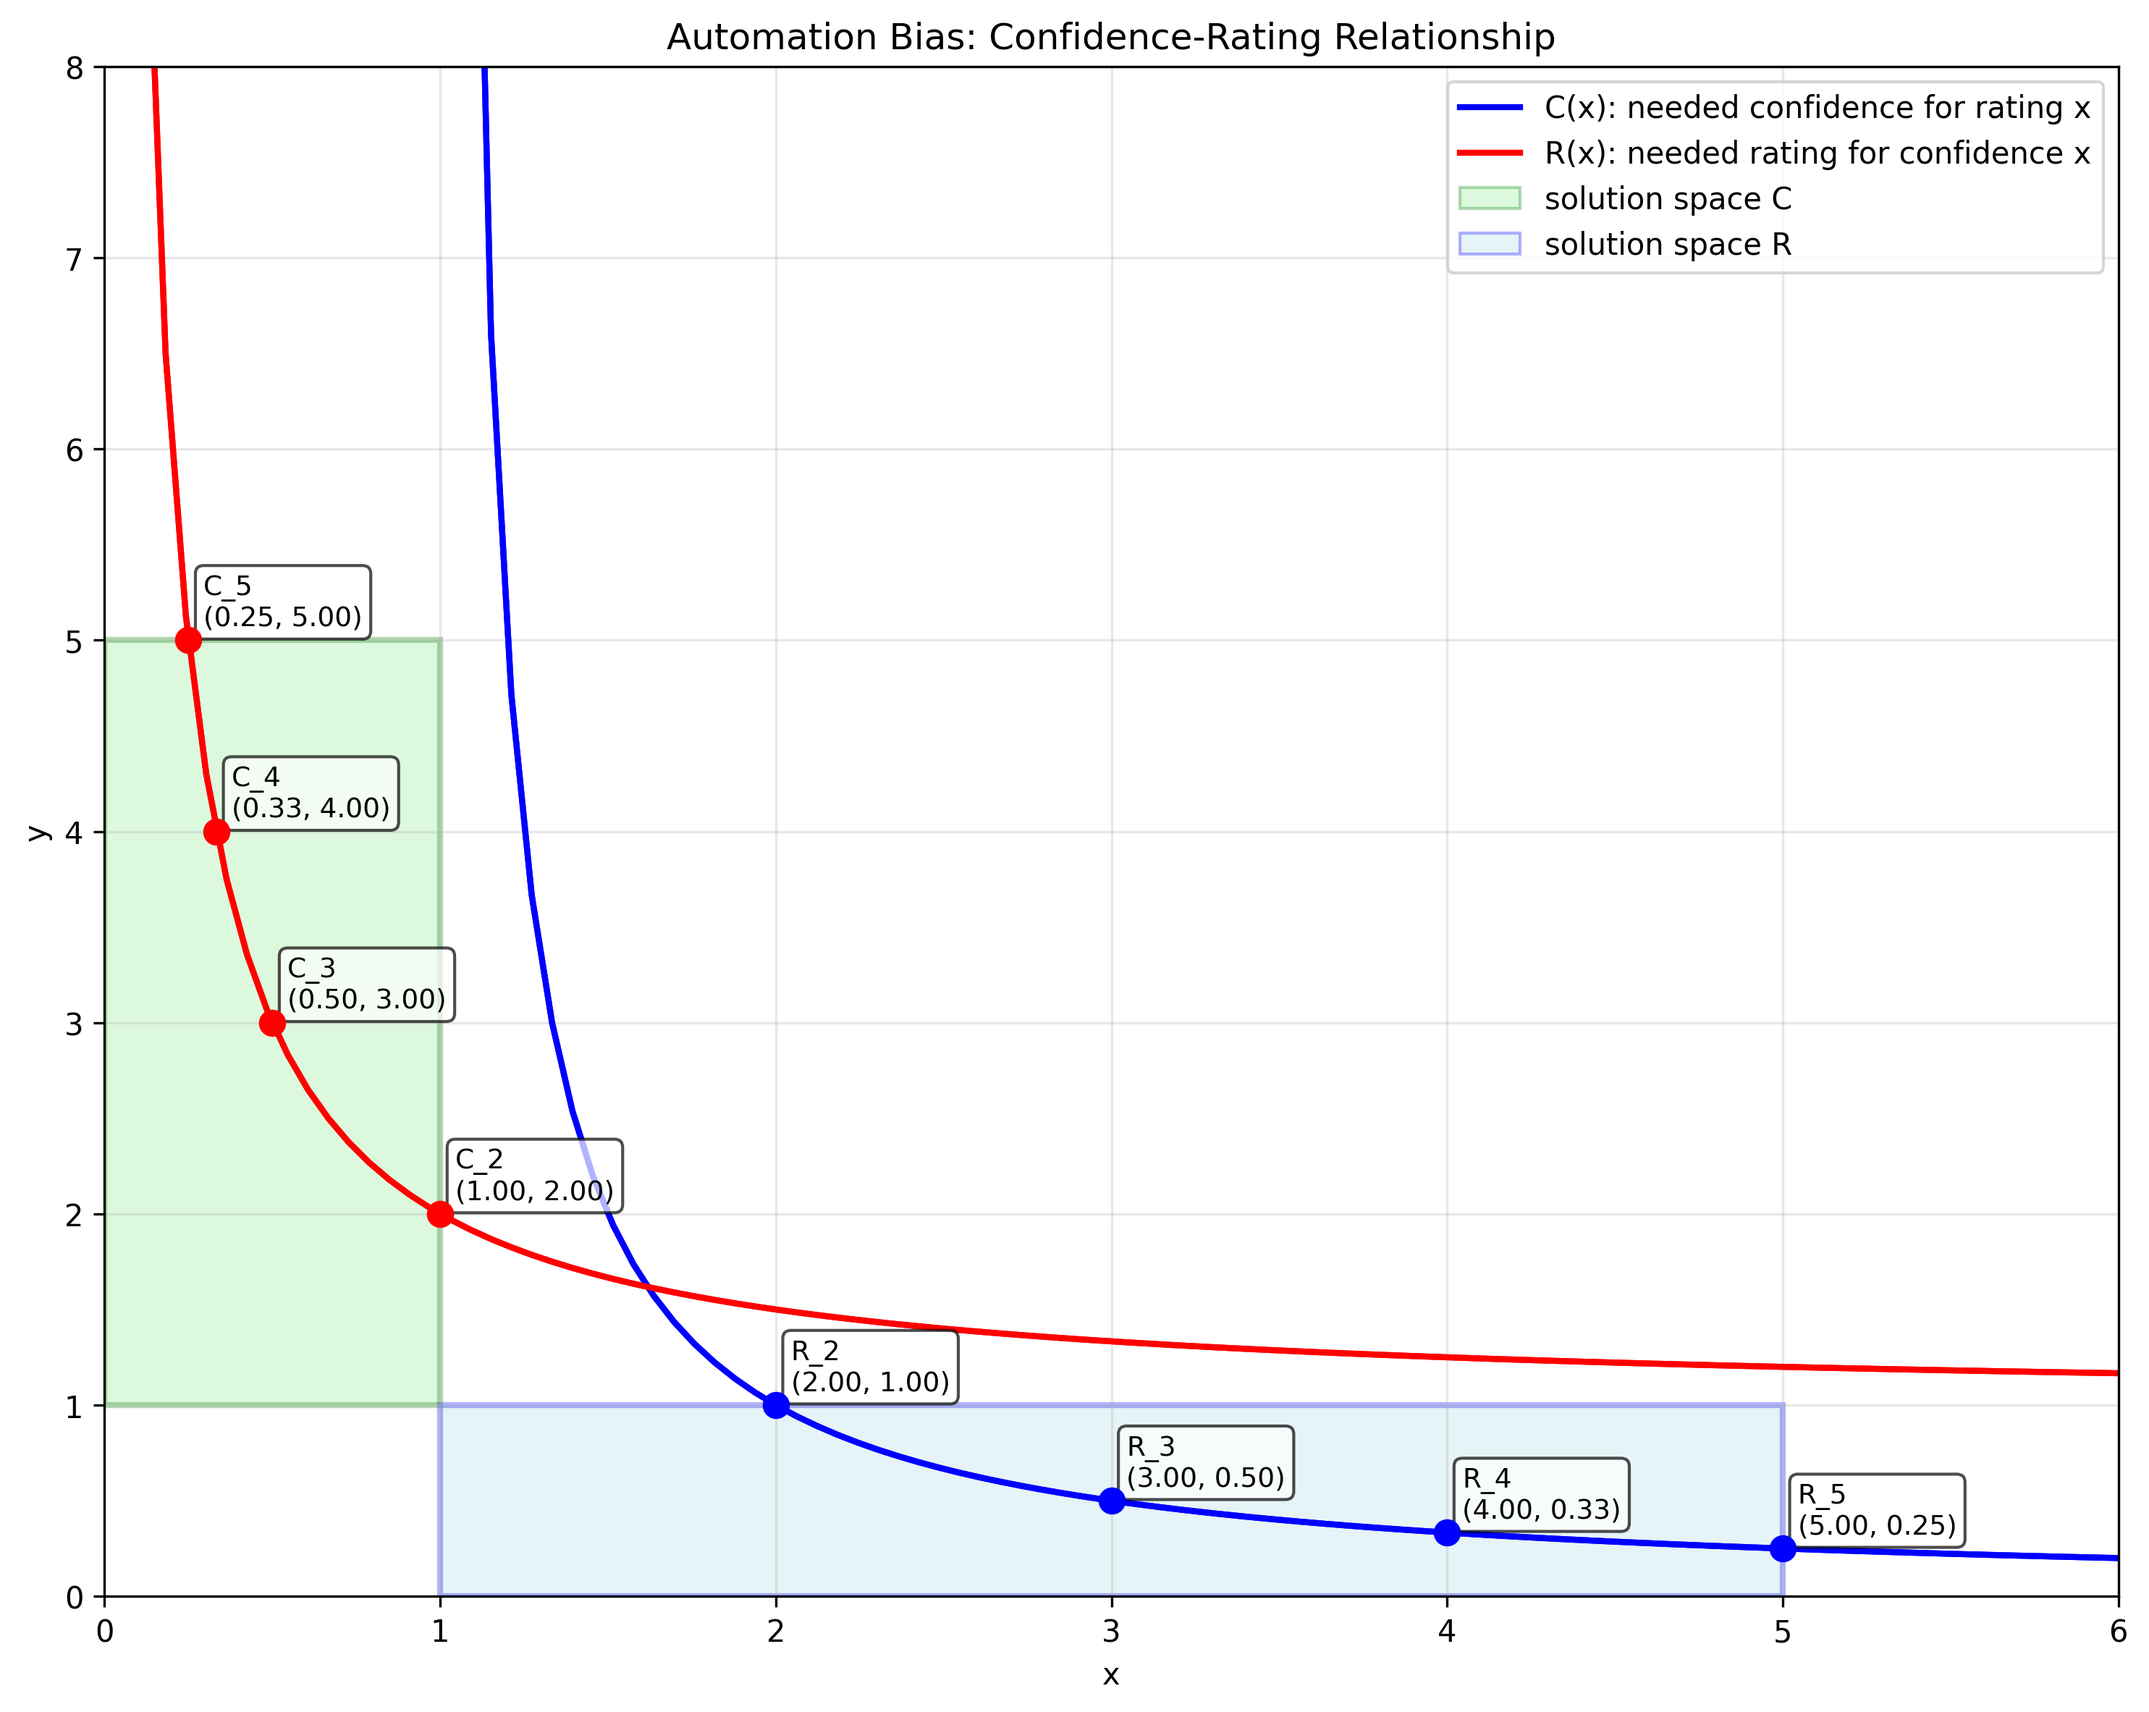
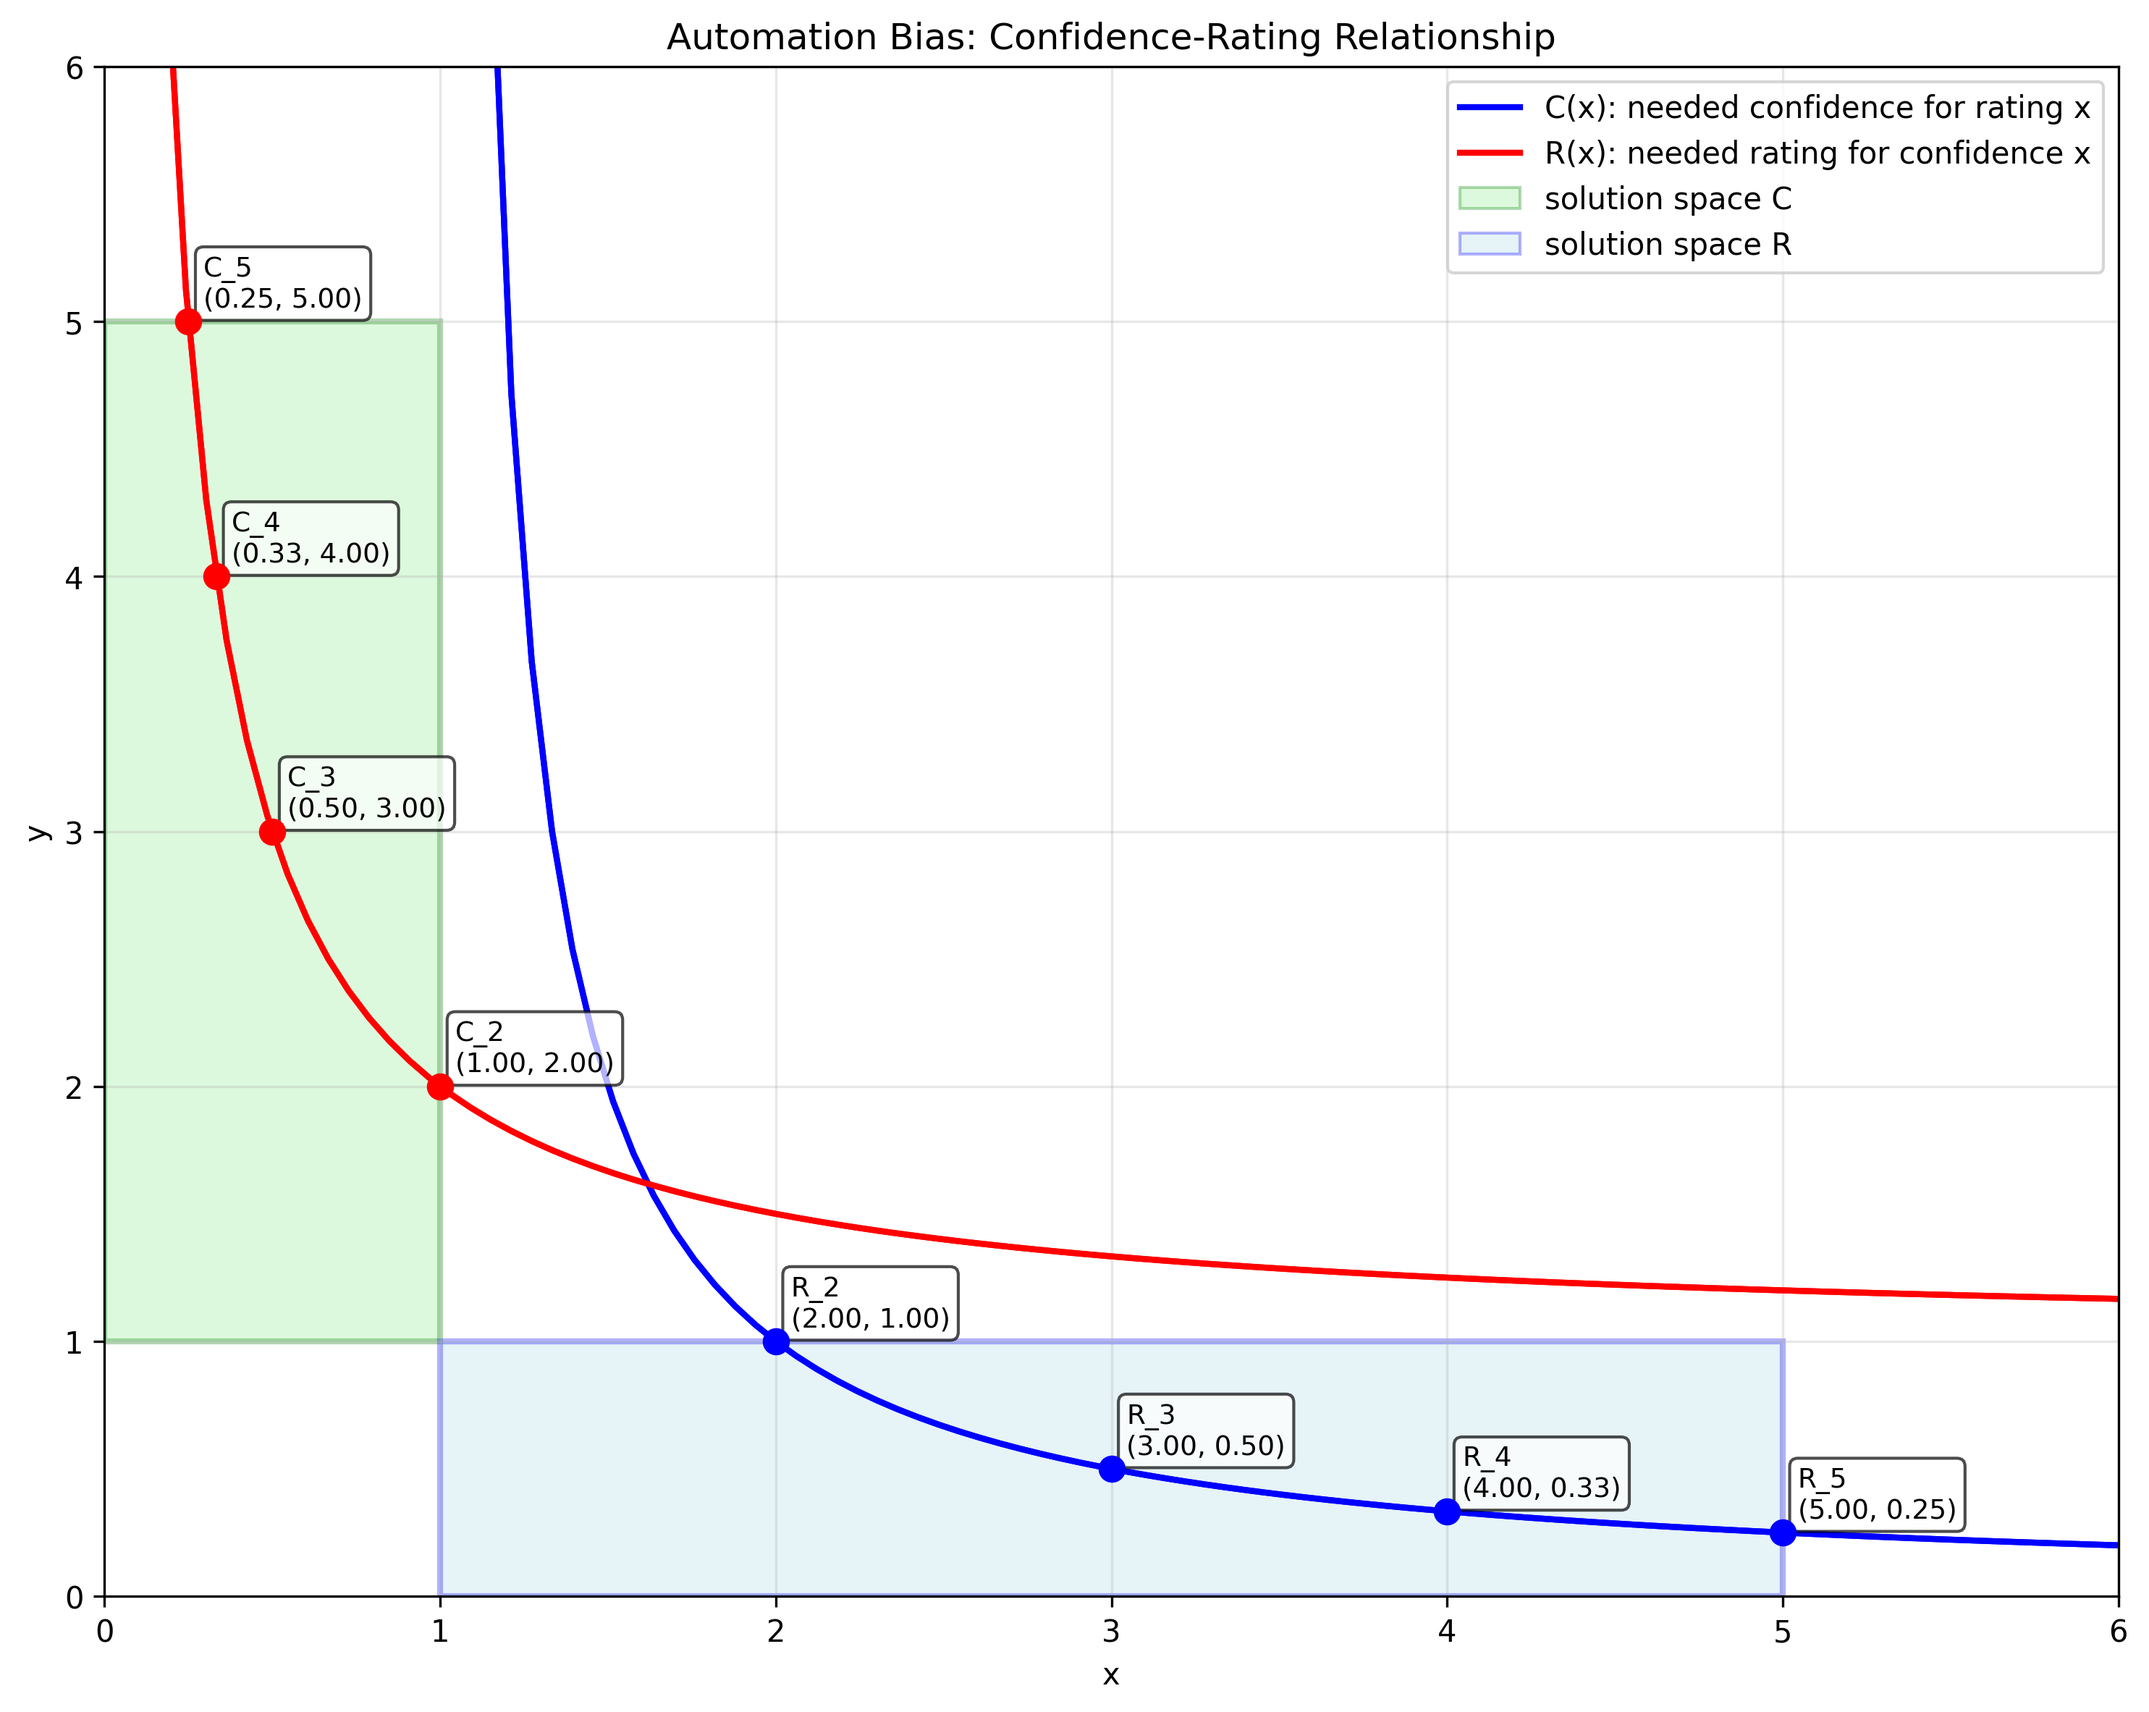
cosmetics

Changed region(s): [[0.031, 0.0309, 0.9916, 0.926], [0.1549, 0.6482, 0.1859, 0.6791]]

diff --git a/Math/automationBiasGraph.py b/Math/automationBiasGraph.py
@@ -37,7 +37,7 @@ RECT2 = [1, 5, 0, 1, "solution space R"]
 
 # Plot-Einstellungen
 X_LIM = (0, 6)
-Y_LIM = (0, 8)
+Y_LIM = (0, 6)
 GRID = True
 FIG_SIZE = (10, 8)
 
